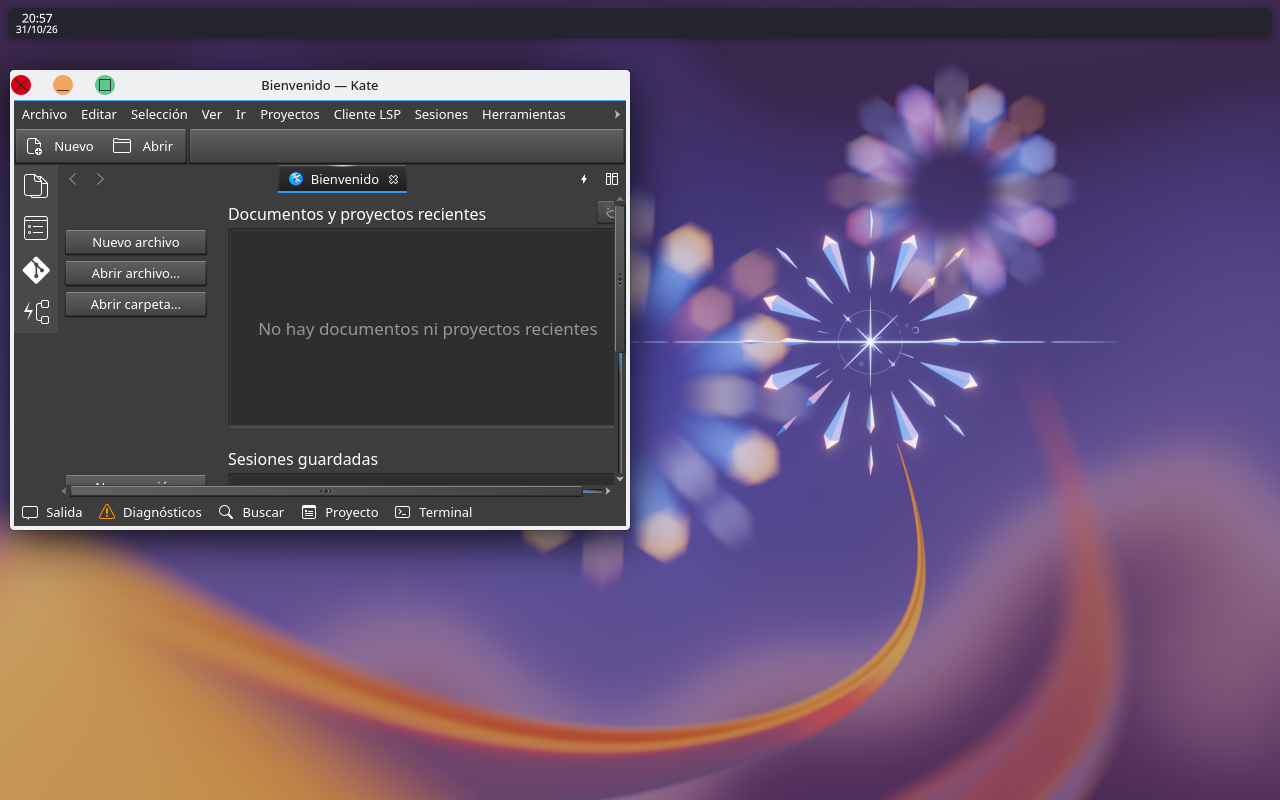
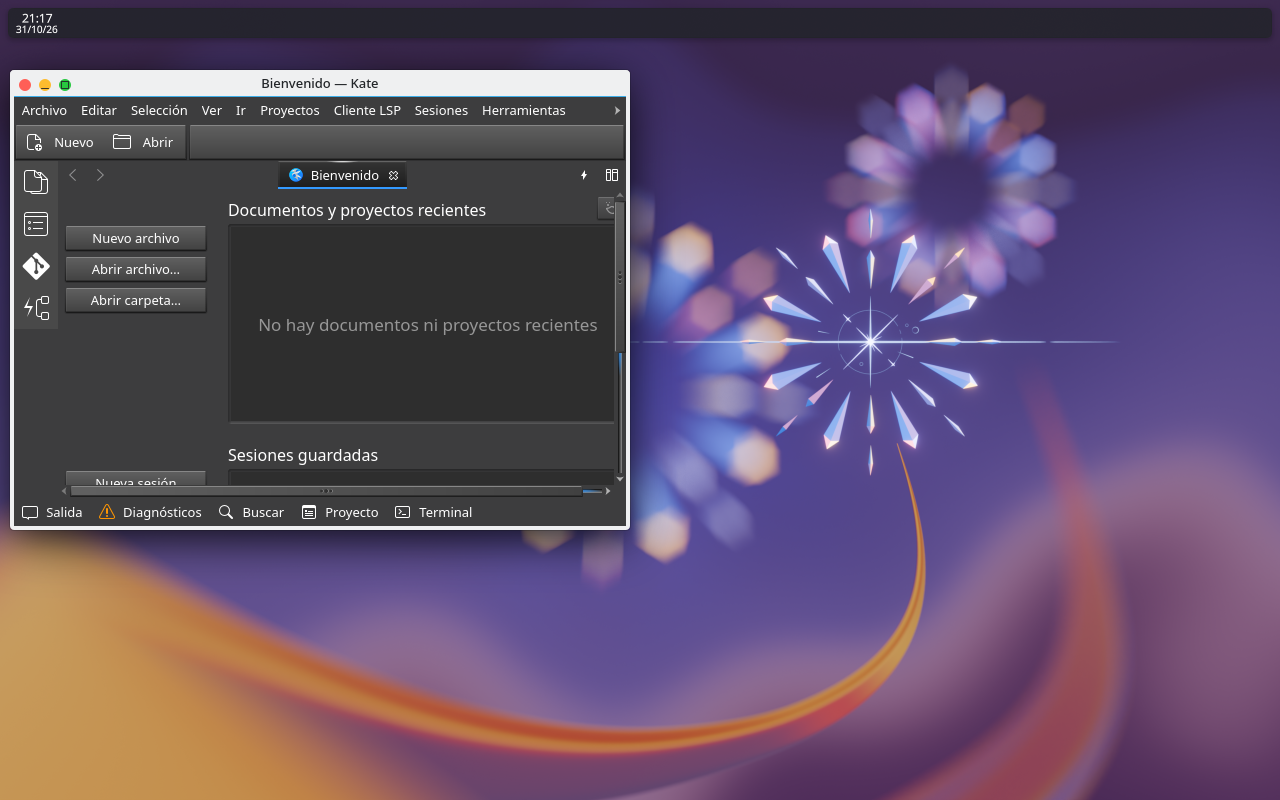
feat(F3-T02): semaforos Klassy 12px/gap8/inactivas via preset (sin parche C++)

diff --git a/docs/plans/evidence/F3-T02-klassy-patch.md b/docs/plans/evidence/F3-T02-klassy-patch.md
@@ -1,0 +1,75 @@
+# F3-T02/F4-T01 Klassy — preset Tahoe sin parche C++ (evidencia nested)
+
+Fecha: 2026-10-31. Harness `tests/vm/nested-plasma.sh --klassy --home <seed>`
++ copia sin sonda en `/tmp` (el harness stock fuerza `ButtonSpacingLeft`
+al arrancar y una sonda runtime a 20; ver §6). Deco `org.kde.klassy`
+6.7.3 stock de `/tmp/klassy-prefix` en `supportInformation`, KWin estable.
+
+## 1. Canal de aplicado real (nuevo)
+
+- Claves sueltas NO bastan: el primer arranque importa el preset bundled.
+- Lo que funciona: `klassy-settings -i nimbus-tahoe.klpw` +
+  `klassy-settings -w Klassy` (escribe `klassy/klassyrc` por grupos +
+  `kwinrc`), y arrancar el nested con ese HOME como seed.
+- Las claves sobreviven al arranque (post-run intactas salvo
+  `[Global] LookAndFeelSet` añadido por Klassy y el pre-seed del harness).
+
+## 2. Causas raíz de los "NO" anteriores (código, no especulación)
+
+- Overrides `#hex` ignorados: `ButtonOverrideColors*` son blobs JSON
+  (`{"BackgroundNormal":[r,g,b],...}`), parseados en
+  `libbreezecommon/decorationbuttoncolors.cpp:decodeButtonOverrideColors`.
+  `#FF5F57` falla en `QJsonDocument::fromJson` → se ignora en silencio.
+  Mapeo índice↔botón en `libbreezecommon/breeze.h:buttonTypeToKcfgColorIndex`
+  (Close=5, Minimize=3, Maximize=4 = nombres de clave del preset).
+- Ø20: `IconSize=IconLargeMedium` (base 22/fondo 20 en
+  `kdecoration/breezedecoration.cpp:calculateIconSizes`). `IconVerySmall`
+  da base 14/fondo 12 = Ø12 sin tocar C++.
+- Gap: `m_leftButtons->setSpacing()` (`breezedecoration.cpp:1278`) SÍ
+  aplica, en arranque y por `/KWin reconfigure`. Modelo medido:
+  gap filo-a-filo = spacing + 2 (1 px de centrado por lado: padded 14
+  vs fondo 12). Puntos: spacing 20→22, 8→10.
+- Offset: `setPos(hPadding + borderLeft())` con
+  `hPadding = TitleBarLeftMargin − border(Normal 4)`; `TitleBarLeftMargin=8`
+  → círculo en 9 px del borde.
+
+## 3. Medidas finales (`spikes/nested/f3-klassy-active/inactive.png`, kate)
+
+| Ítem | Contrato | Medido @1x (PIL) | Estado |
+|---|---|---|---|
+| orden | XIA izq | XIA izq | OK |
+| Ø círculo | 12 | 12×12 (w=h=12 saturado) | OK |
+| gap filo | 8 | 8 (x 30→39 y 39→59 filo, spacing 6) | OK |
+| close | #FF5F57 lleno | (255,95,87) centro | OK |
+| minimize | #FEBC2E lleno | (254,188,46) centro | OK |
+| maximize | #28C840 lleno | (40,200,64) centro | OK |
+| inactivo | #8E8E93 | (142,142,147) ×3, sin glifo | OK |
+| glifos normal | ninguno (macOS) | `ShowCloseIconNormally*=false`; resto ya sin glifo | OK |
+| offset | 8–9 | 9 (borde ventana→filo close) | OK |
+| titlebar | 26–28 | 26–27 (filas claras + separador 1 px) | OK |
+
+## 4. Límite duro: hover (sin parche, reportado exacto)
+
+- Maximizar pinta □ (`RenderStyleMaterialDynamic18By18::renderMaximizeIcon`,
+  `libbreezecommon/stylematerialdynamic.cpp:18`); ningún `style*` dibuja
+  `+` (grep `Plus` vacío). Hover `+` imposible por config.
+- Hover físico no inyectable en nested (sin puntero; KWin scripting solo
+  geometría/foco). Glifos hover ×/−/□ configurados
+  (`Show*OnHover*=true`, `WhiteWhenHoverPress`) pero NO verificados.
+- Propuesta: plugin propio R-DECO (ya decidido en rama); sin parche
+  inventado aquí.
+
+## 5. Archivos
+
+- `packages/themes/klassy-preset/nimbus-tahoe.klpw` (preset; deltas en cabecera)
+- `packages/kwin/decoration/nimbus-decoration/README.md` (aplicar/construir/pin)
+- Sin `klassy-12px.patch`: no hay cambio C++ que justifique diff.
+
+## 6. Trampas del harness (para el dueño de la rama)
+
+- `tests/vm/nested-plasma.sh:87-90` pre-seed `ButtonShape` +
+  `ButtonSpacingLeft=8` en el HOME dado (pisó seeds 2 y 3: gap 10
+  idéntico con spacing 6 y 4; causó el "spacing ignorado" aparente).
+- Sonda runtime `spacing 8→20` + `/KWin reconfigure` antes de las capturas.
+- `klassy-settings -w` genera iconos en `XDG_DATA_HOME`: redirigirlo o
+  ensucia `~/.local/share/icons` (limpiado tras el test).

diff --git a/packages/kwin/decoration/nimbus-decoration/README.md b/packages/kwin/decoration/nimbus-decoration/README.md
@@ -1,0 +1,61 @@
+# nimbus-decoration — semáforos Tahoe sobre Klassy stock (sin parche C++)
+
+Resultado F3-T02/F4-T01: **no hace falta parchear ni recompilar Klassy**.
+Todo el contrato estático se alcanza con el preset
+`packages/themes/klassy-preset/nimbus-tahoe.klpw` (= `Klassy.klpw` 6.7.3 +
+deltas documentados en su cabecera) aplicado por el canal real
+(`klassy-settings -i/-w`, no claves sueltas). Ver evidencia en
+`docs/plans/evidence/F3-T02-klassy-patch.md`.
+
+## Por qué no hay `klassy-12px.patch`
+
+Auditado el código 6.7.3, ningún cambio C++ es necesario para los estados
+estáticos; cada gap tenía causa configurable:
+
+- Ø20→12: `IconSize=IconVerySmall` (base 14 / fondo 12 en
+  `kdecoration/breezedecoration.cpp:calculateIconSizes`, sin tocar código).
+- Overrides `#hex` ignorados: `ButtonOverrideColors*` NO son colores, son
+  blobs JSON (`{"BackgroundNormal":[r,g,b],...}`); los parsea
+  `libbreezecommon/decorationbuttoncolors.cpp:decodeButtonOverrideColors`.
+  Un `#FF5F57` falla en `QJsonDocument::fromJson` y se ignora en silencio.
+- Gris inactivo: mismo mecanismo con los tres estados a `[142,142,147]`.
+- Gap: `ButtonSizing/ButtonSpacing*` sí aplica (verificado por
+  `/KWin reconfigure` en nested); el "ignorado" anterior era el preset
+  bundled pisando claves sueltas al primer arranque.
+- Titlebar 26: sale solo de `max(fm.height, padded 14) + 3.6 + 3.6`.
+
+Límites duros (requieren plugin propio, R-DECO): hover `+` en maximizar
+(ningún `style*` lo dibuja; `stylematerialdynamic.cpp:renderMaximizeIcon`
+pinta □) y hover físico no inyectable en nested. No se inventa parche.
+
+## Aplicar el preset (canal real)
+
+```bash
+klassy-settings -i packages/themes/klassy-preset/nimbus-tahoe.klpw
+klassy-settings -w Klassy   # escribe klassy/klassyrc por grupos + kwinrc
+qdbus6 org.kde.KWin /KWin reconfigure
+```
+
+`-i` sin `-w` solo guarda en `klassy/windecopresetsrc` (no aplica).
+Claves sueltas con `kwriteconfig6` en `klassy/klassyrc` las pisa el import
+del preset bundled en el primer arranque: no usar.
+
+## Construir Klassy 6.7.3 (pin, solo si hay que recompilar)
+
+```bash
+cp -a /tmp/klassy-src /tmp/klassy-nimbus-src   # nunca tocar el original
+cmake -S /tmp/klassy-nimbus-src -B /tmp/klassy-nimbus-build \
+  -DBUILD_QT5=OFF -DBUILD_QT6=ON -DCMAKE_BUILD_TYPE=Release \
+  -DCMAKE_PREFIX_PATH=/tmp/ecm-prefix \
+  -DCMAKE_INSTALL_PREFIX=/tmp/klassy-nimbus-prefix
+cmake --build /tmp/klassy-nimbus-build -j"$(nproc)"
+cmake --install /tmp/klassy-nimbus-build
+```
+
+Uso en nested: el harness `tests/vm/nested-plasma.sh --klassy` expone
+`/tmp/klassy-prefix` (build 6.7.3 stock de las mismas fuentes; al no haber
+parche, es binariamente equivalente). La receta de arriba con
+`/tmp/klassy-nimbus-prefix` es para reconstrucción independiente.
+
+Pin: `PROJECT_VERSION "6.7.3"` en `CMakeLists.txt`; Plasma 6 host
+(Qt 6.12, KF6 sistema, ECM en `/tmp/ecm-prefix`).
